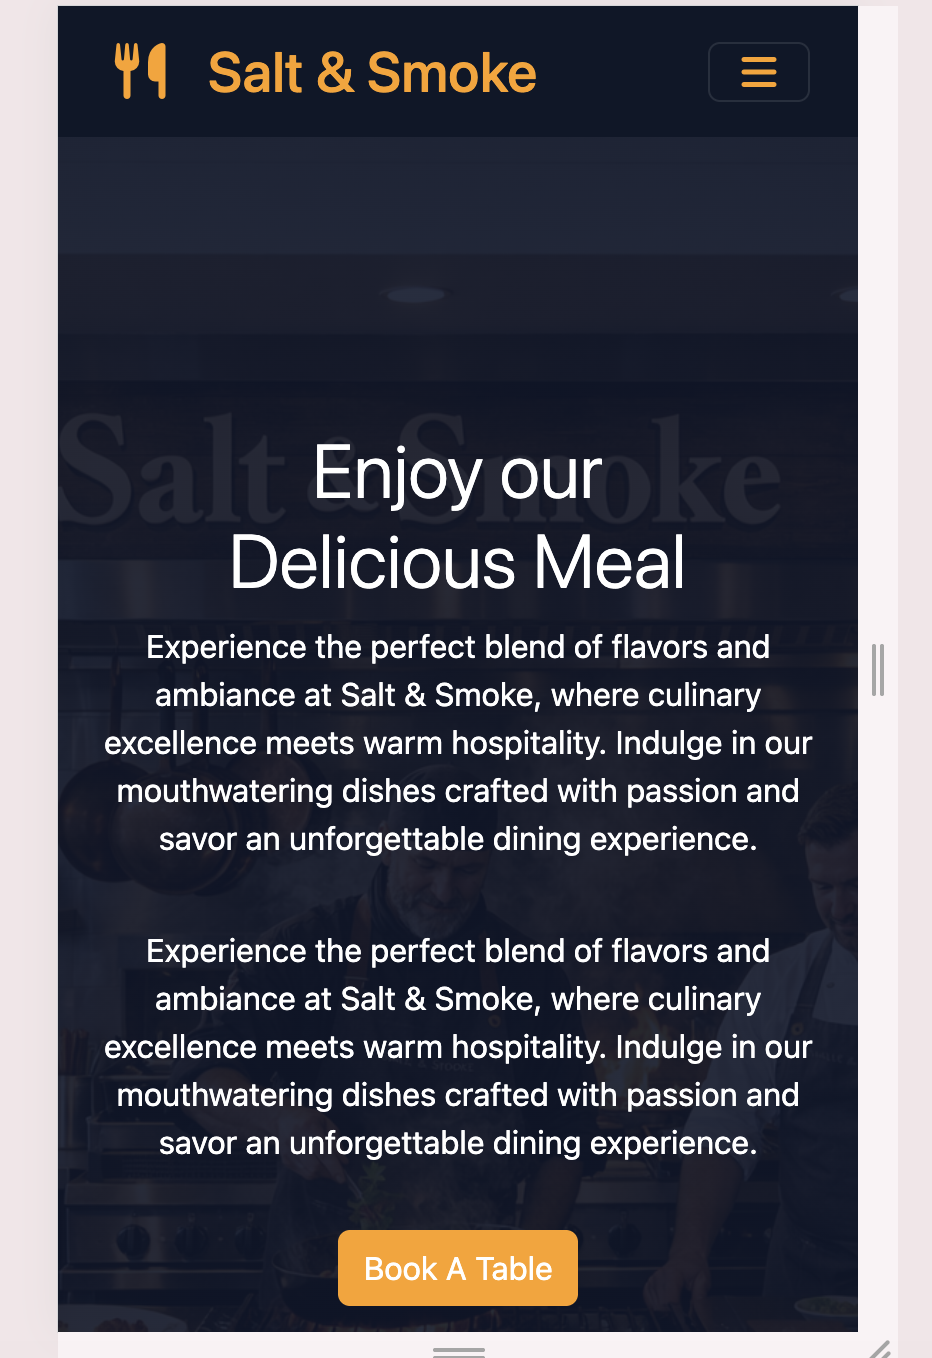
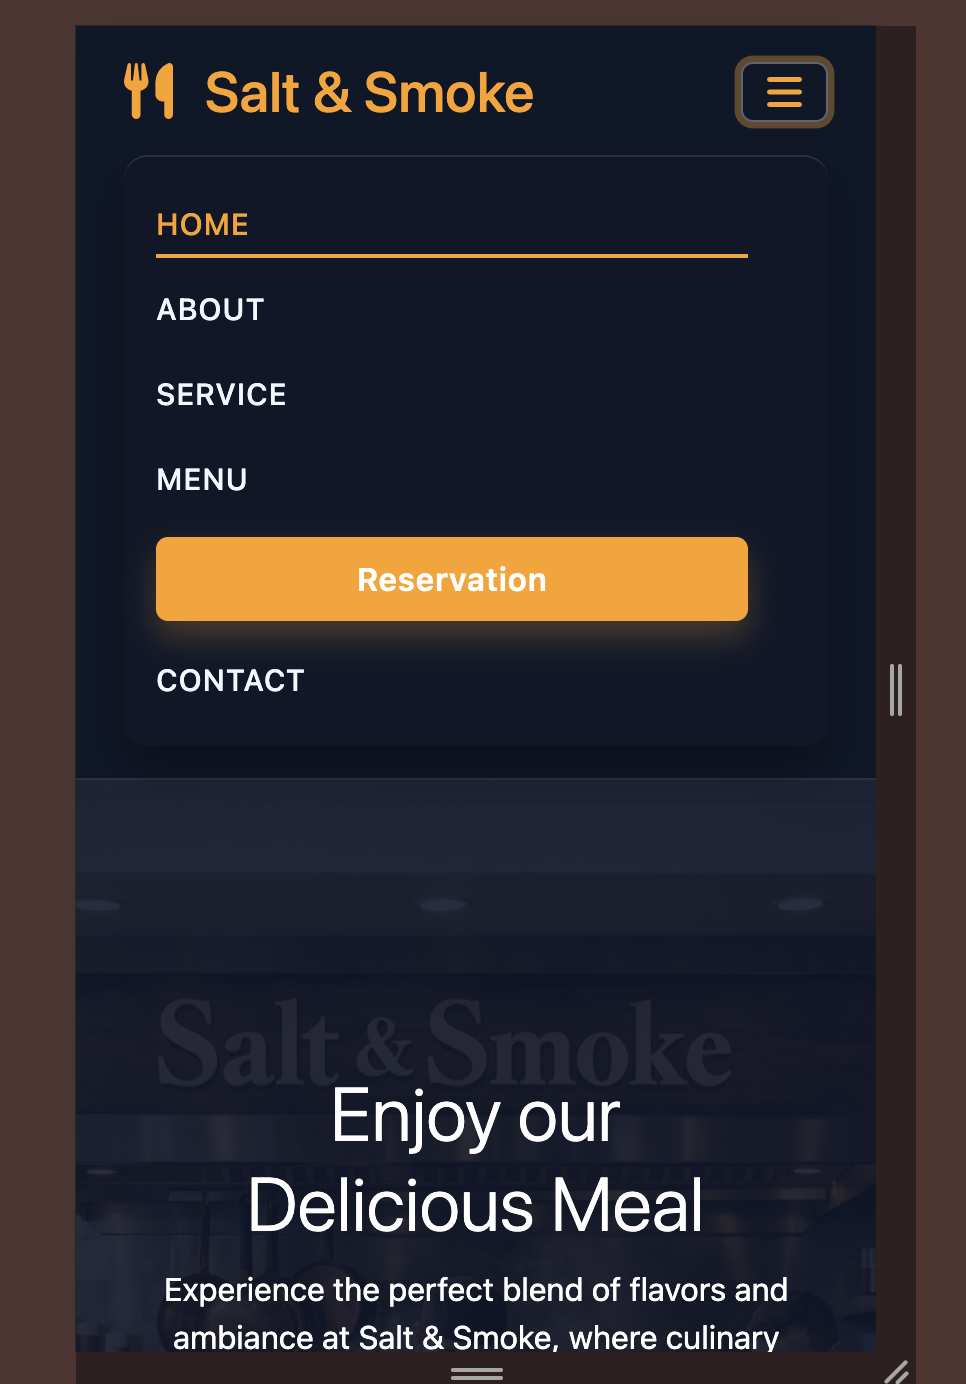
Update project files

diff --git a/README.md b/README.md
@@ -52,11 +52,11 @@ Salt & Smoke is an interactive restaurant web application built as a portfolio p
 
 ## Color Scheme
 
-- primary: #fea116 (README-img/primary.png)
+- #fea116 ![primary ](README-img/primary.png)
 
-- light: #f1f8ff (README-img/light.png)
+- #f1f8ff ![light](README-img/light.png)
 
-- dark: #0f1728 (README-img/dark.png)
+- #0f1728 ![dark](README-img/dark.png)
 
 ## Contrast Checker
 